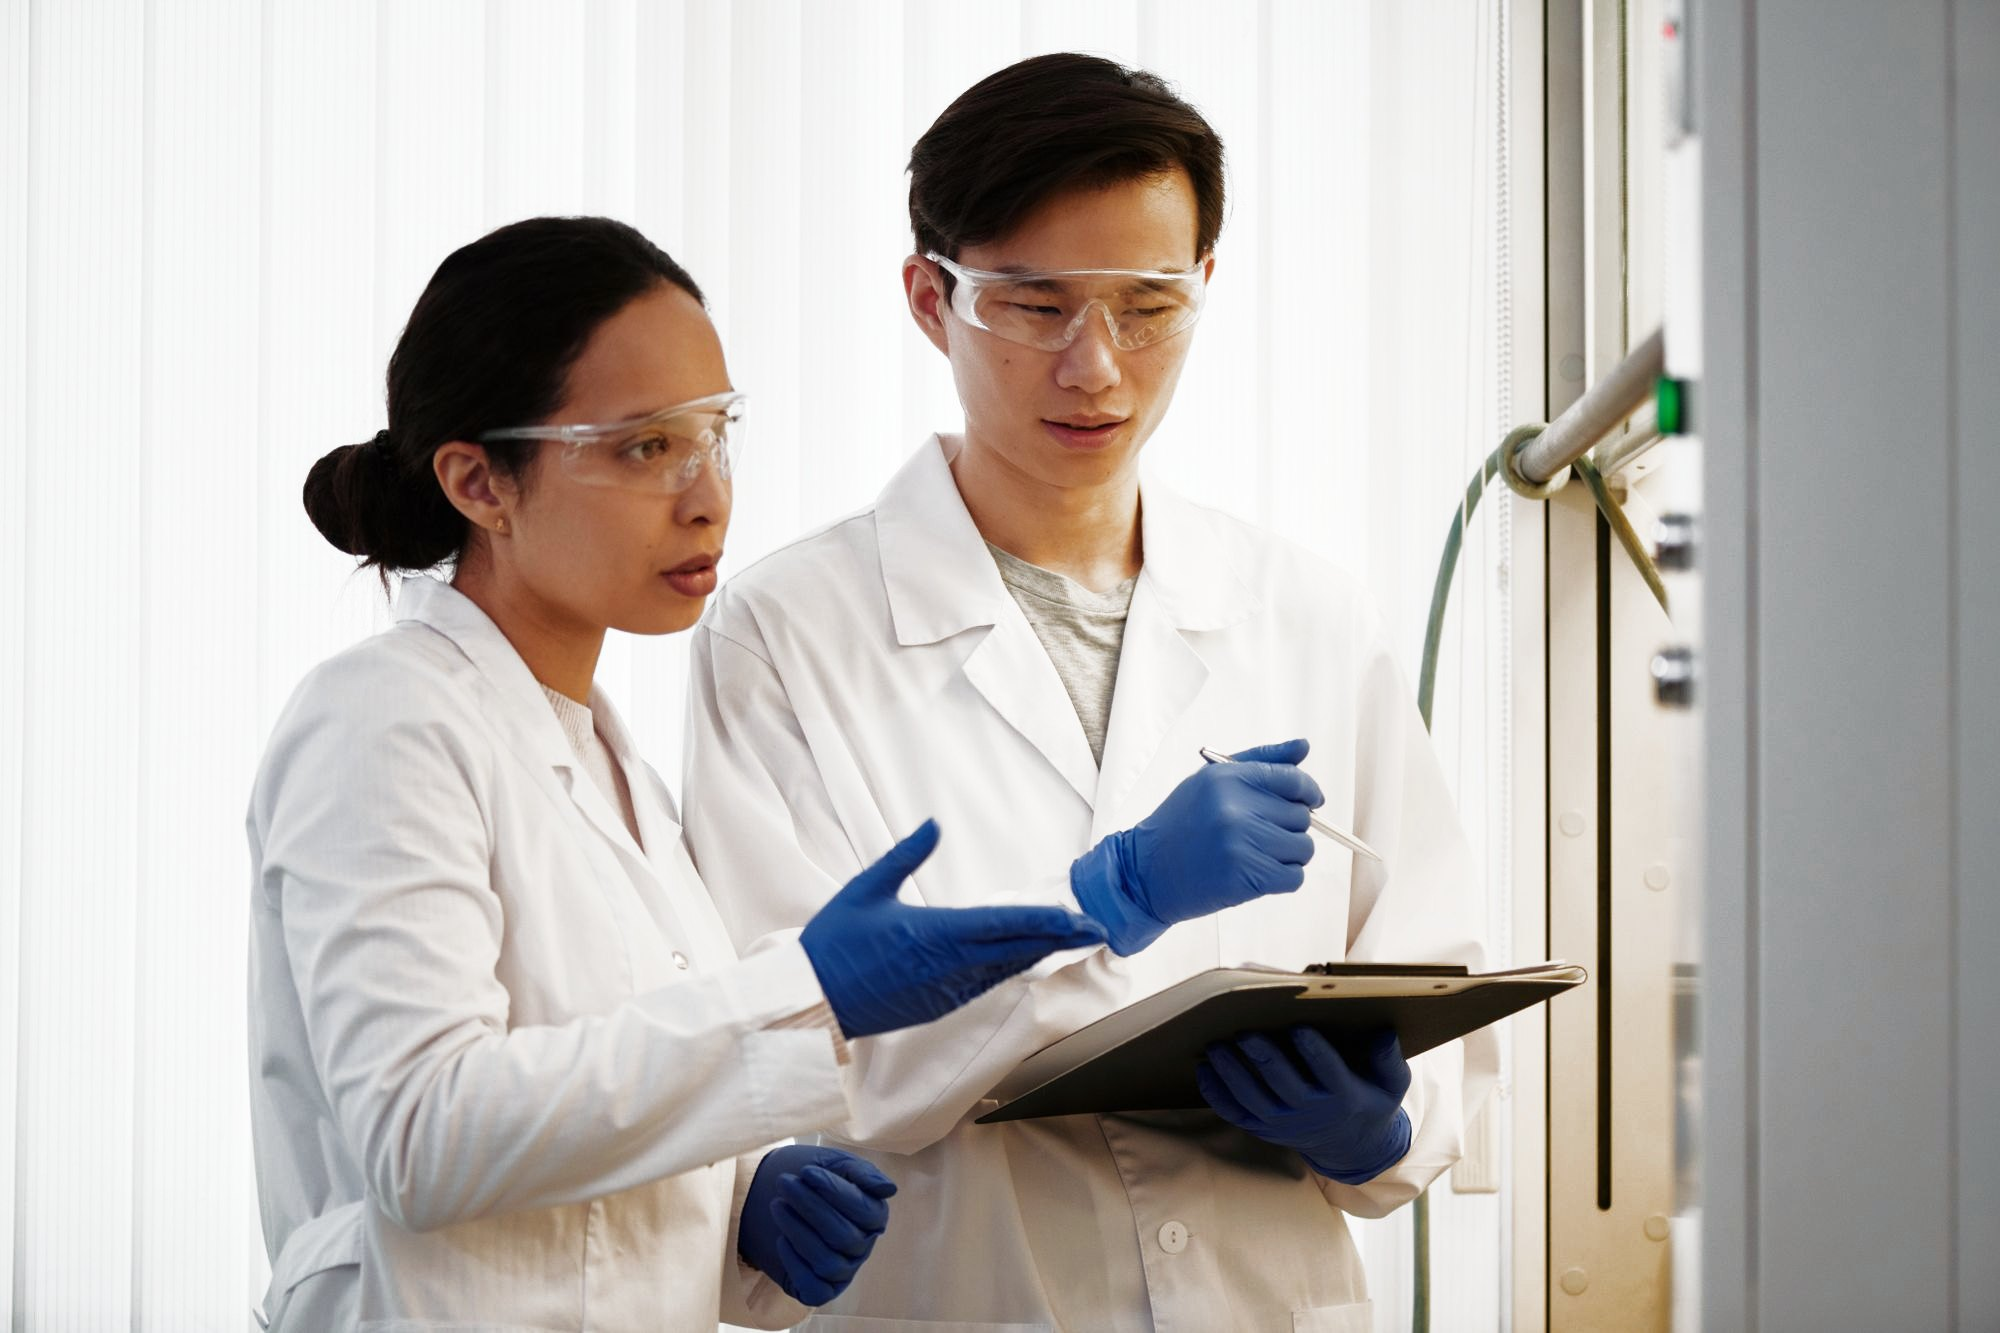
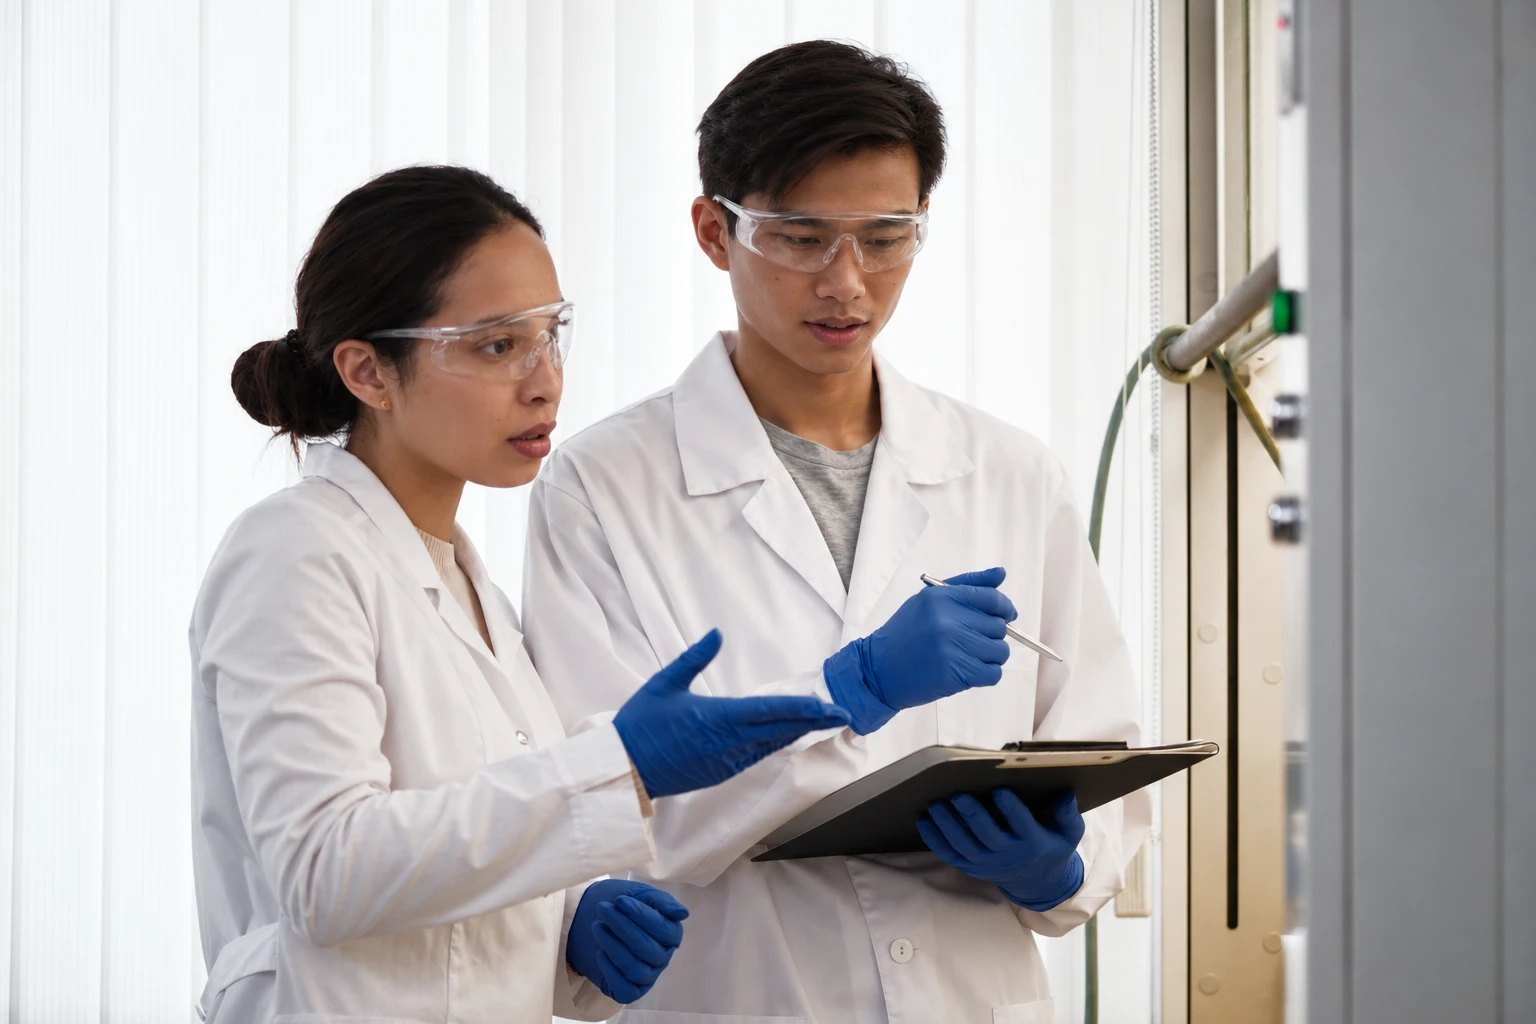
Closing section: use the user's supplied lab photo as-is (original colours)

diff --git a/index.html b/index.html
@@ -13,9 +13,9 @@
 <link rel="preconnect" href="https://fonts.googleapis.com">
 <link rel="preconnect" href="https://fonts.gstatic.com" crossorigin>
 <link href="https://fonts.googleapis.com/css2?family=Inter:wght@400;500;600;700&family=Inter+Tight:wght@400;500;600;700&display=swap" rel="stylesheet">
-<link rel="stylesheet" href="assets/css/site.css?v=20261023n">
-<script defer src="assets/js/i18n.js?v=20261023n"></script>
-<script defer src="assets/js/site.js?v=20261023n"></script>
+<link rel="stylesheet" href="assets/css/site.css?v=20261023o">
+<script defer src="assets/js/i18n.js?v=20261023o"></script>
+<script defer src="assets/js/site.js?v=20261023o"></script>
 <script type="application/ld+json">
 {
   "@context": "https://schema.org",
@@ -175,7 +175,7 @@
 
   <!-- Big call to action -->
   <section class="cta-photo">
-    <img src="assets/img/closing-lab.jpg" alt="Two OneCare lab staff reviewing results on a clipboard" loading="lazy">
+    <img src="assets/img/closing-lab.jpg?v=2" alt="Two OneCare lab staff reviewing results on a clipboard" loading="lazy">
     <div class="wrap">
       <div>
         <h2><span data-i18n="home.bigH1">Your health,</span><span data-i18n="home.bigH2">taken seriously.</span></h2>

diff --git a/tests.html b/tests.html
@@ -12,9 +12,9 @@
 <link rel="preconnect" href="https://fonts.googleapis.com">
 <link rel="preconnect" href="https://fonts.gstatic.com" crossorigin>
 <link href="https://fonts.googleapis.com/css2?family=Inter:wght@400;500;600;700&family=Inter+Tight:wght@400;500;600;700&display=swap" rel="stylesheet">
-<link rel="stylesheet" href="assets/css/site.css?v=20261023n">
-<script defer src="assets/js/i18n.js?v=20261023n"></script>
-<script defer src="assets/js/site.js?v=20261023n"></script>
+<link rel="stylesheet" href="assets/css/site.css?v=20261023o">
+<script defer src="assets/js/i18n.js?v=20261023o"></script>
+<script defer src="assets/js/site.js?v=20261023o"></script>
 <script defer src="assets/js/prices.js"></script>
 <script defer src="assets/js/estimator.js"></script>
 </head>

diff --git a/test-guide.html b/test-guide.html
@@ -12,9 +12,9 @@
 <link rel="preconnect" href="https://fonts.googleapis.com">
 <link rel="preconnect" href="https://fonts.gstatic.com" crossorigin>
 <link href="https://fonts.googleapis.com/css2?family=Inter:wght@400;500;600;700&family=Inter+Tight:wght@400;500;600;700&display=swap" rel="stylesheet">
-<link rel="stylesheet" href="assets/css/site.css?v=20261023n">
-<script defer src="assets/js/i18n.js?v=20261023n"></script>
-<script defer src="assets/js/site.js?v=20261023n"></script>
+<link rel="stylesheet" href="assets/css/site.css?v=20261023o">
+<script defer src="assets/js/i18n.js?v=20261023o"></script>
+<script defer src="assets/js/site.js?v=20261023o"></script>
 <script defer src="assets/js/guide.js"></script>
 </head>
 <body>

diff --git a/about.html b/about.html
@@ -12,9 +12,9 @@
 <link rel="preconnect" href="https://fonts.googleapis.com">
 <link rel="preconnect" href="https://fonts.gstatic.com" crossorigin>
 <link href="https://fonts.googleapis.com/css2?family=Inter:wght@400;500;600;700&family=Inter+Tight:wght@400;500;600;700&display=swap" rel="stylesheet">
-<link rel="stylesheet" href="assets/css/site.css?v=20261023n">
-<script defer src="assets/js/i18n.js?v=20261023n"></script>
-<script defer src="assets/js/site.js?v=20261023n"></script>
+<link rel="stylesheet" href="assets/css/site.css?v=20261023o">
+<script defer src="assets/js/i18n.js?v=20261023o"></script>
+<script defer src="assets/js/site.js?v=20261023o"></script>
 </head>
 <body>
 <header id="site-header"></header>

diff --git a/before-your-test.html b/before-your-test.html
@@ -12,9 +12,9 @@
 <link rel="preconnect" href="https://fonts.googleapis.com">
 <link rel="preconnect" href="https://fonts.gstatic.com" crossorigin>
 <link href="https://fonts.googleapis.com/css2?family=Inter:wght@400;500;600;700&family=Inter+Tight:wght@400;500;600;700&display=swap" rel="stylesheet">
-<link rel="stylesheet" href="assets/css/site.css?v=20261023n">
-<script defer src="assets/js/i18n.js?v=20261023n"></script>
-<script defer src="assets/js/site.js?v=20261023n"></script>
+<link rel="stylesheet" href="assets/css/site.css?v=20261023o">
+<script defer src="assets/js/i18n.js?v=20261023o"></script>
+<script defer src="assets/js/site.js?v=20261023o"></script>
 </head>
 <body>
 <header id="site-header"></header>

diff --git a/contact.html b/contact.html
@@ -12,9 +12,9 @@
 <link rel="preconnect" href="https://fonts.googleapis.com">
 <link rel="preconnect" href="https://fonts.gstatic.com" crossorigin>
 <link href="https://fonts.googleapis.com/css2?family=Inter:wght@400;500;600;700&family=Inter+Tight:wght@400;500;600;700&display=swap" rel="stylesheet">
-<link rel="stylesheet" href="assets/css/site.css?v=20261023n">
-<script defer src="assets/js/i18n.js?v=20261023n"></script>
-<script defer src="assets/js/site.js?v=20261023n"></script>
+<link rel="stylesheet" href="assets/css/site.css?v=20261023o">
+<script defer src="assets/js/i18n.js?v=20261023o"></script>
+<script defer src="assets/js/site.js?v=20261023o"></script>
 </head>
 <body>
 <header id="site-header"></header>

diff --git a/patient-care.html b/patient-care.html
@@ -12,9 +12,9 @@
 <link rel="preconnect" href="https://fonts.googleapis.com">
 <link rel="preconnect" href="https://fonts.gstatic.com" crossorigin>
 <link href="https://fonts.googleapis.com/css2?family=Inter:wght@400;500;600;700&family=Inter+Tight:wght@400;500;600;700&display=swap" rel="stylesheet">
-<link rel="stylesheet" href="assets/css/site.css?v=20261023n">
-<script defer src="assets/js/i18n.js?v=20261023n"></script>
-<script defer src="assets/js/site.js?v=20261023n"></script>
+<link rel="stylesheet" href="assets/css/site.css?v=20261023o">
+<script defer src="assets/js/i18n.js?v=20261023o"></script>
+<script defer src="assets/js/site.js?v=20261023o"></script>
 </head>
 <body>
 <header id="site-header"></header>
